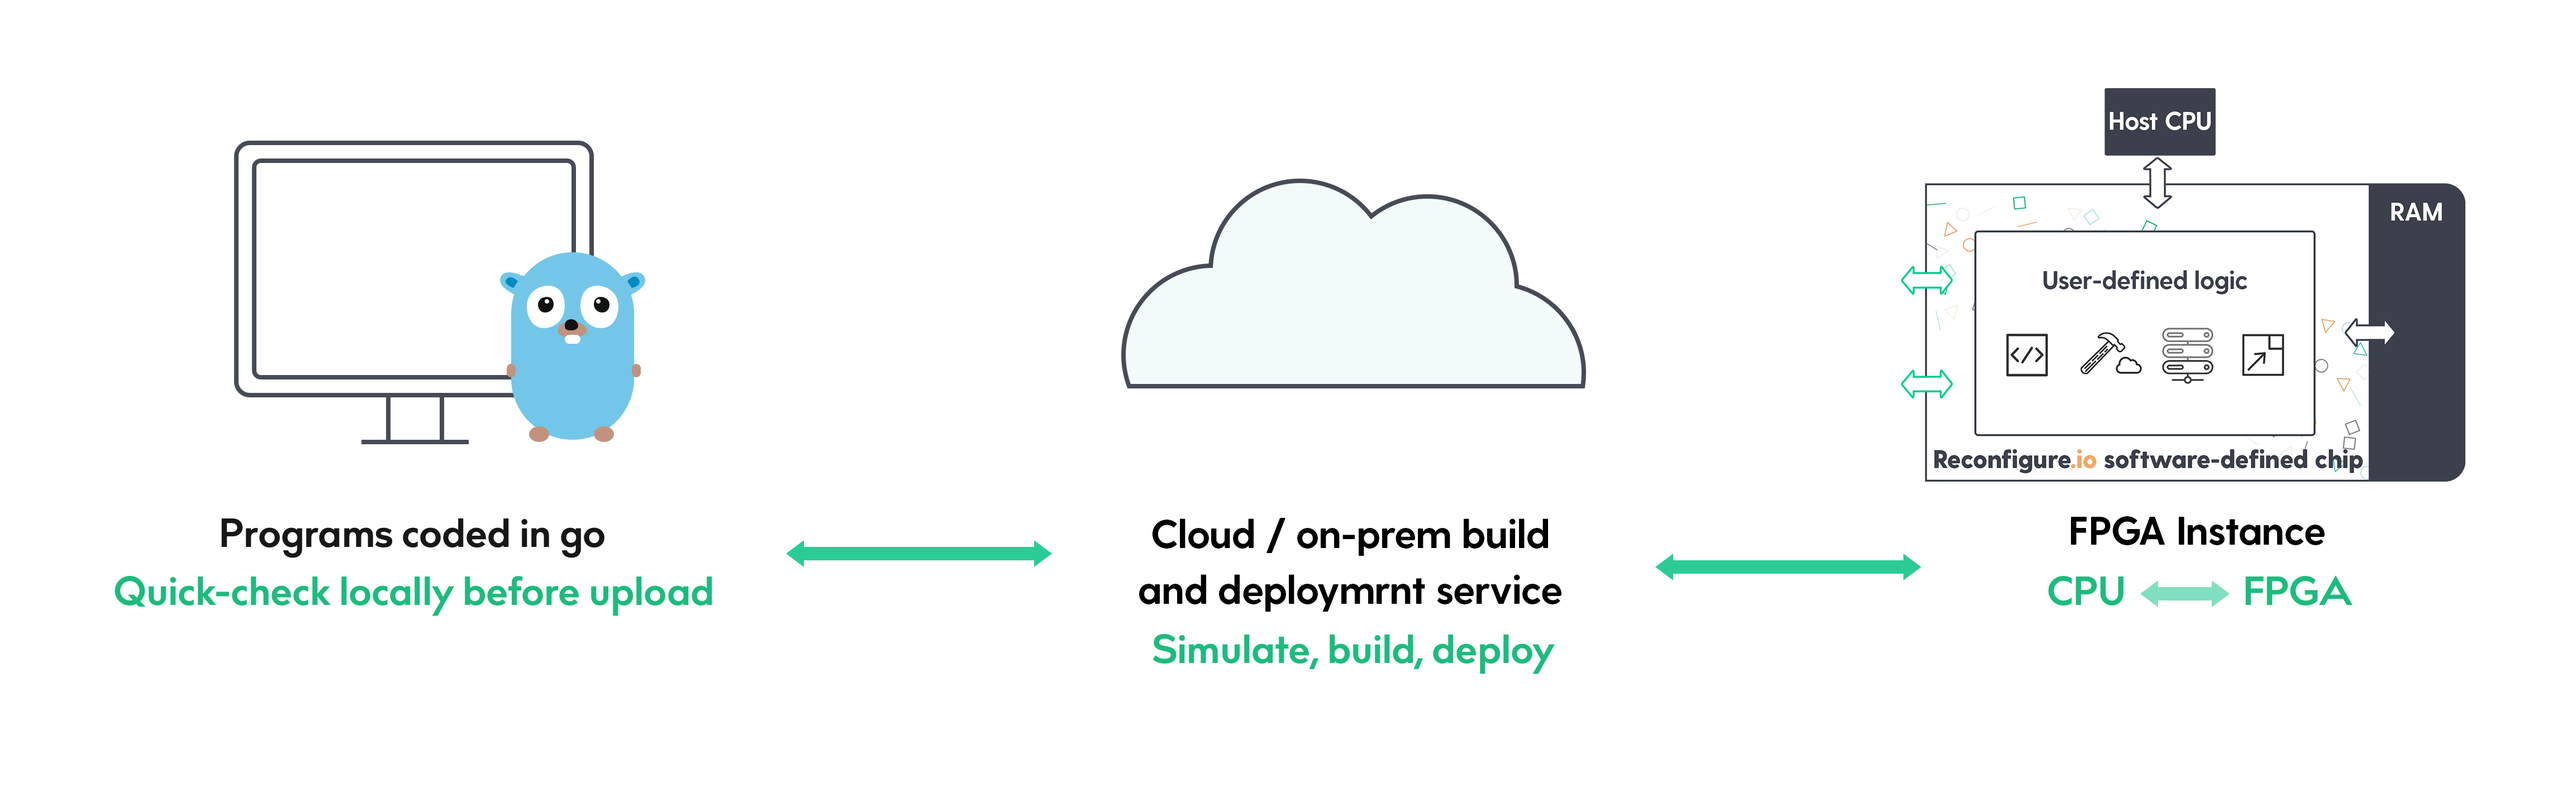
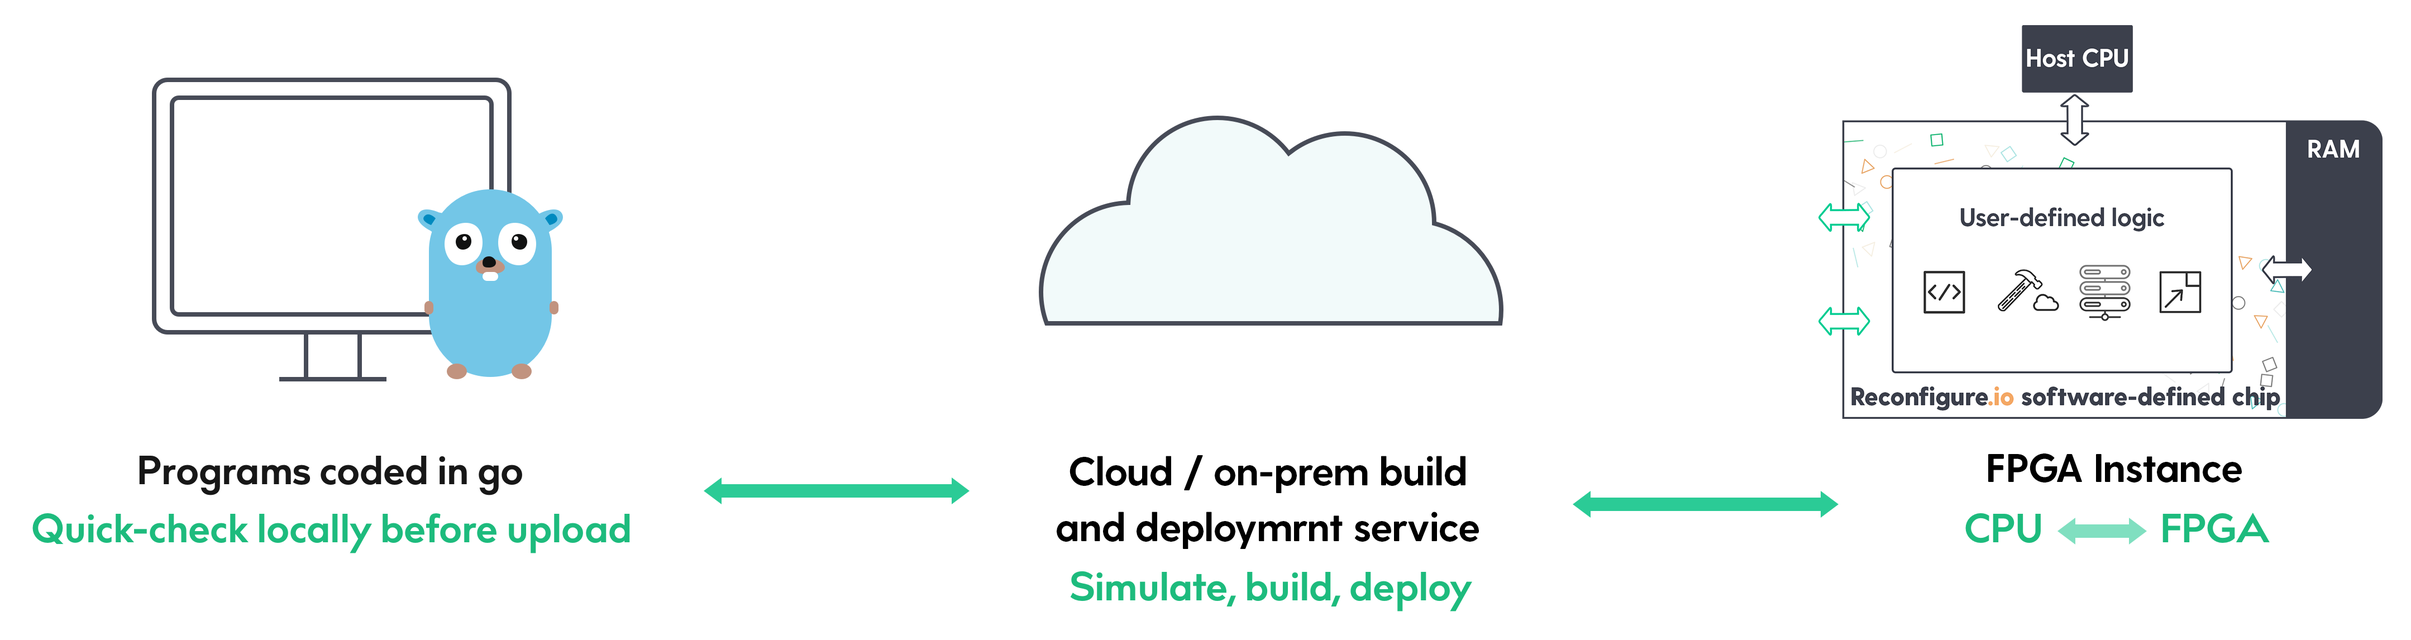
image resize

diff --git a/docs/source/overview.rst b/docs/source/overview.rst
@@ -4,6 +4,10 @@ How it works
 =============================
 This section gives an overview of the Reconfigure.io service. We'll start by running through our workflow and tooling, and then take a look at our system architecture and the steps we go through to get your code into a suitable format for programming an FPGA instance.
 
+.. image:: images/workflow.png
+    :align: center
+    :width: 100%
+
 If you prefer to just get stuck in, you can jump straight to our :ref:`tutorials <demo>`, or watch a video run-through |video|.
 
 Reconfigure.io is a platform as a service (PaaS), which takes Go code, compiles and optimizes it, and deploys to FPGA instances. Depending on which platform you're using, FPGA instances are either cloud-based (AWS F1) or on-premises. Either way, you will code in Go and interact with our service using ``reco``, our simple command-line tool.
@@ -18,10 +22,6 @@ Access to the Reconfigure.io service is through our tool – ``reco``. Use ``rec
 ``reco`` is a simple tool with several intuitive commands, we'll look at some of these in the relevant sections below – commands are described in bullet points. For a full list see, :ref:`tool`.
 
 Let's take a look at the workflow from coding to deployment:
-
-.. image:: images/workflow.png
-    :align: center
-    :width: 100%
 
 Code
 ^^^^^
@@ -133,6 +133,8 @@ Our software defined chips are based on FPGA instances, each of which is made up
 Data can be shared between the FPGA chip and host CPU via shared memory; the host can allocate blocks in shared memory and pass pointers to the FPGA, and the FPGA can read and write to and from those pointers. The FPGA also has on-chip block RAM, which it can allocate directly.
 
 .. image:: images/instanceArchitecture.png
+   :align: center
+   :width: 70%
 
 CPU vs FPGA
 ^^^^^^^^^^^^
